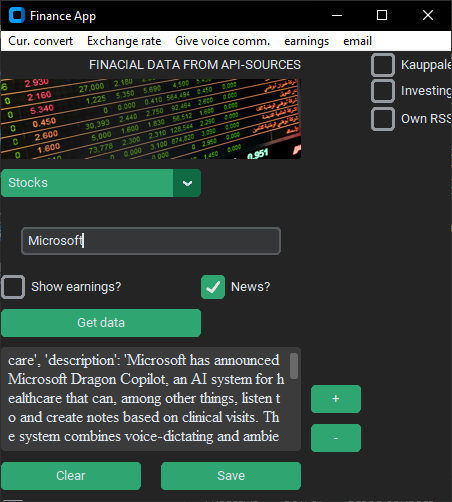
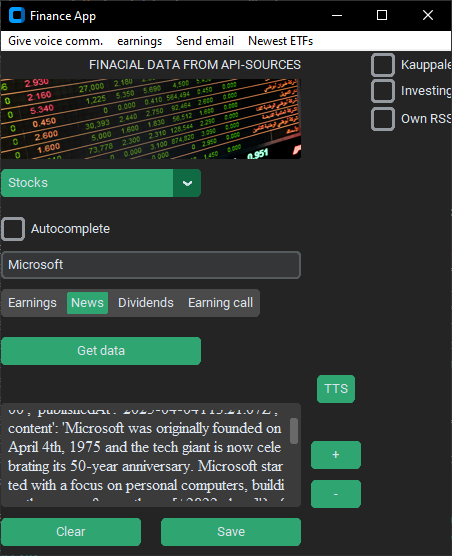
Segmented Button widgets added to finance.py

diff --git a/finance.py b/finance.py
@@ -99,9 +99,7 @@ class App(ctk.CTk,tk.Menu):
         self.earnings=ctk.CTkCheckBox(self,text="Show earnings?", onvalue="on", offvalue="off", variable=self.earningsSV)
         self.newsAboutComp=ctk.CTkCheckBox(self,text="News?",command=lambda:self.news.companyNews(self.codeEntry.get(),self.textbox))
         
-        self.createStockBars=ctk.CTkCheckBox(self,text="EOD data",command=lambda:self.ms.showEod(self.codeEntry.get()))
-        self.dividends=ctk.CTkCheckBox(self,text="Dividends",command=lambda:self.ms.getDividends(self.codeEntry.get(),self.textbox))
-        self.earnTranscript=ctk.CTkCheckBox(self,text="Earning call",command=lambda:self.an.earningCalls(self.codeEntry.get(),self.textbox,self.earnTranscript))
+      
         self.getBtn=ctk.CTkButton(self,text="Get data",command=self.selectMethods,width=200)
         self.getBtn.grid(row=7,column=1,columnspan=3,sticky="w",pady=10)
         self.textbox=ctk.CTkTextbox(self,width=200,corner_radius=5,height=105,font=self.font)
@@ -164,9 +162,26 @@ class App(ctk.CTk,tk.Menu):
         self.indexMenuByCountry=ctk.CTkOptionMenu(self,values=['Select','Finland','Germany','Japan','Poland'],command=lambda x:self.sc.scrapeIndex(x,self.textbox))
        
         self.yfOptions=ctk.CTkOptionMenu(self,values=['Select','Recommendations','Major Holders','Mutual fund hold.','Dividends'],command=lambda x: self.ytf.getOption(x,self.codeEntry.get(),self.textbox))
-        self.historyCB=ctk.CTkCheckBox(self,text="Get history",command=lambda:self.ms.historicalData(self.codeEntry.get(),self.textbox,self.fromDate.get(),self.toDate.get()))
-        self.createHistoryGraph=ctk.CTkCheckBox(self,text="History graphics",command=lambda:self.ytf.yfHistory(self.fromDate.get(),self.toDate.get(),self.codeEntry.get()))
-    #luetaan kaikki data tickers.txt tiedostosta ja lisätään data tickerlist listaan.
+        #self.historyCB=ctk.CTkCheckBox(self,text="Get history",command=lambda:self.ms.historicalData(self.codeEntry.get(),self.textbox,self.fromDate.get(),self.toDate.get()))
+        self.historyOptions=ctk.CTkSegmentedButton(self,values=['Get history','History graph','Intraday'],command=lambda sel:self.ytf.yfHistory(sel,self.fromDate.get(),self.toDate.get(),self.codeEntry.get(),self.textbox))
+        self.stockOptions=ctk.CTkSegmentedButton(self, values=['Earnings','News','Dividends','Earning call'],command=self.getStockOption)
+        self.cryptoOptions=ctk.CTkSegmentedButton(self,values=['Save cryptos to CSV'],command=self.getStockOption)
+        self.quantity=ctk.CTkComboBox(self,values=['1m', '2m', '5m', '15m', '30m', '60m', '90m', '1h', '4h', '1d', '5d', '1wk', '1mo', '3mo'],command=self.ytf.getComboBoxValue,width=70)
+        self.quantity.set('1m')
+   
+
+    def getStockOption(self,val):
+        if val=="News":
+            self.news.companyNews(self.codeEntry.get(),self.textbox)
+        elif val=='Dividends':
+            self.ms.getDividends(self.codeEntry.get(),self.textbox)
+        elif val=="Earning call":
+            self.an.earningCalls(self.codeEntry.get(),self.textbox)
+        elif val=="Save cryptos to CSV":
+            self.opt.getCryptos()
+
+
+ #luetaan kaikki data tickers.txt tiedostosta ja lisätään data tickerlist listaan.
     def setAcText(self):
          self.tickerFile=open("tickers.txt","r")
          self.tickerData=self.tickerFile.read()
@@ -189,9 +204,6 @@ class App(ctk.CTk,tk.Menu):
             if response.isdigit()==False:
                 self.sc.getEtfData(self.textbox,response)
             
-            
-         
-    
     def speechReg(self):
         r = sr.Recognizer()
         with sr.Microphone() as source:
@@ -217,6 +229,7 @@ class App(ctk.CTk,tk.Menu):
         self.klRss.deselect()
         self.invRss.deselect()
         self.writeUrl.deselect()
+        self.codeEntry.delete(0,"end")
 
     #käyttäjän antama rss-syötteen osoite
     def showInput(self):
@@ -245,19 +258,13 @@ class App(ctk.CTk,tk.Menu):
         if self.choice in self.words:
             self.codeEntry.grid(row=5, column=1, sticky="ew")
             if self.choice=="Stocks":
+                self.stockOptions.grid(row=6,column=1,sticky="W",pady=10)
                 self.useAC.grid(row=4,column=1,sticky="w",pady=10)
-                self.earnings.grid(row=6,column=1,sticky="W")
-                self.newsAboutComp.grid(row=6,column=1,sticky="E")
-                self.createStockBars.grid(row=6,column=2,sticky="E")
-                self.dividends.grid(row=6,column=3,sticky="E")
-                self.earnTranscript.grid(row=7,column=2,sticky="W")
+           
            
             elif self.choice=="Crypto":
                 self.useAC.grid(row=4,column=1,sticky="w",pady=10)
-                
-                #self.cryptoCsv=ctk.CTkCheckBox(self,text="Save cryptos to CSV",command=lambda:self.opt.getCryptos())
-                self.newsAboutComp.grid(row=6,column=1,sticky="W")
-                self.cryptoCsv.grid(row=6,column=1,sticky="E")
+                self.cryptoOptions.grid(row=6,column=1,sticky="E")
             
             elif self.choice=="Commodities":
                 
@@ -266,16 +273,14 @@ class App(ctk.CTk,tk.Menu):
 
             elif self.choice=="History":
                 self.codeEntry.grid(row=5, column=1,sticky="W")
-              
-                
-                self.historyCB.grid(row=7,column=1,sticky="W")
-                self.createHistoryGraph.grid(row=7,column=1,sticky="E")
+                self.historyOptions.grid(row=7,column=1,sticky="W")
                 self.fromDate=ctk.CTkEntry(self,placeholder_text="FROM (YYYY-MM-DD)")
                 self.fromDate.grid(row=6,column=1,sticky="EW")
                 self.fromDate.bind("<Button>",self.calendarMethod)
                 self.toDate=ctk.CTkEntry(self,placeholder_text="TO (YYYY-MM-DD)")
                 self.toDate.bind("<Button>",self.setCalDateToEnd)
                 self.toDate.grid(row=6,column=1,sticky="E")
+                self.quantity.grid(row=7,column=2,sticky="E",padx=5)
                 self.getBtn.grid_forget()
             elif self.choice=="Finance Dictionary":
                 self.codeEntry.grid(row=6,column=1,sticky="W",pady=5)
@@ -323,9 +328,9 @@ class App(ctk.CTk,tk.Menu):
          #piilottaa dict oliossa olevat gridit              
         else:
             self.grids={'grid':self.codeEntry.grid_forget(),'grid':self.earnings.grid_forget(),'grid':self.comMenu.grid_forget(),'grid':self.newsAboutComp.grid_forget()
-                        ,'grid':self.createStockBars.grid_forget(),'grid':self.podcasts.grid_forget(),'grid':self.podstop.grid_forget(),'grid':self.cryptoCsv.grid_forget()
+                        ,'grid':self.podcasts.grid_forget(),'grid':self.podstop.grid_forget()
                         ,'grid':self.financeDict.grid_forget(),'grid':self.getTermBtn.grid_forget(),'grid':self.indexMenuByCountry.grid_forget()
-                        ,'grid':self.codeentryAc.grid_forget(),'grid':self.yfOptions.grid_forget()}
+                        ,'grid':self.codeentryAc.grid_forget(),'grid':self.yfOptions.grid_forget(),'grid':self.fromDate.grid_forget(),'grid':self.toDate.grid_forget()}
             self.grids['grid']
             
             #muutetaan buttonin tekstiä configuren avulla
@@ -398,13 +403,9 @@ class App(ctk.CTk,tk.Menu):
             
 
     def selectMethods(self):
-        print(self.earningsSV.get())
+    
         #jos stocks on valittu pudotusvalikosta earning cb on valittu
-        if self.choice=="Stocks" and self.earningsSV.get()=="on":
-            self.an.fetchData(self.textbox,self.codeEntry.get(),self.valueCB)
-            self.an.fetchEarnings(self.textbox,self.codeEntry.get())
-        elif self.choice=="Stocks":
-           
+        if self.choice=="Stocks":   
             self.an.fetchData(self.textbox,self.codeEntry.get(),self.valueCB)
         elif self.choice=="Crypto":
             self.an.fetchCryptoData(self.textbox,self.valueCB,self.codeEntry.get())
@@ -417,7 +418,7 @@ class App(ctk.CTk,tk.Menu):
     
     def calendarMethod(self,event):
         self.cal = DateEntry(self, date_pattern="yyyy-mm-dd")
-        self.cal.grid(row=7,column=1,sticky="W",pady=10)
+        self.cal.grid(row=8,column=1,sticky="W",pady=10)
         self.cal.bind("<FocusOut>",self.setCalDate) 
     
     def setCalDate(self,event):
@@ -428,7 +429,7 @@ class App(ctk.CTk,tk.Menu):
         
     def setCalDateToEnd(self,event):
          self.cal = DateEntry(self, date_pattern="yyyy-mm-dd")
-         self.cal.grid(row=7,column=1,sticky="W",pady=10)
+         self.cal.grid(row=8,column=1,sticky="W",pady=10)
          self.cal.bind("<FocusOut>",self.setCalDateToEndField)
             
     def setCalDateToEndField(self,event):

diff --git a/yahooFinance.py b/yahooFinance.py
@@ -1,8 +1,10 @@
 import yfinance as yf
 import matplotlib.pyplot as plt
+from marketStack import MarketStack
 class YahooFinance():
      def __init__(self,*args, **kwargs):
         super().__init__(*args, **kwargs)
+        self.ms=MarketStack()
 
         
 
@@ -15,9 +17,6 @@ class YahooFinance():
          #metodin kutsu sulkeet lisätään tässä, muuten suoritetaan kaikki metodit
          self.optionDict[self.val]()
          self.ticker=yf.ticker(self.stockcode)
-
-         
-
     
      def getRecomms(self):
          ticker = yf.Ticker(self.stockcode)
@@ -40,27 +39,48 @@ class YahooFinance():
          dividends=ticker.get_dividends(proxy=None, period='max')
          self.tbox.insert("end",dividends)
     
-     def yfHistory(self,startdate,enddate,stockname):
+     def yfHistory(self,sel,startdate,enddate,stockname,tbox):
+         if sel=="History graph":
+             
+            stock = yf.Ticker(stockname)
+            data = stock.history(start=startdate, end=enddate)
+
+            fig, ax1 = plt.subplots(figsize=(14, 7))
+
+            ax1.set_xlabel('Date')
+            ax1.set_ylabel('Close Price', color='tab:red')
+            ax1.plot(data.index, data['Close'], color='tab:red', label='Close Price')
+            ax1.tick_params(axis='y', labelcolor='tab:red')
+
+            ax2 = ax1.twinx()
+            ax2.set_ylabel('Volume', color='tab:orange')
+            ax2.bar(data.index, data['Volume'], color='tab:cyan', alpha=0.3, label='Volume')
+            ax2.tick_params(axis='y', labelcolor='tab:cyan')
+
+            plt.title(f'{stockname} Stock Price and Volume from {startdate} to {enddate}')
+            fig.tight_layout()
+            fig.legend(loc='upper left', bbox_to_anchor=(0.1,0.9))
+            plt.grid(True)
+            plt.show()
+         elif sel=='Intraday':
+             self.stockIntraday(stockname,tbox)
+         elif sel=='Get history':
+             self.ms.historicalData(stockname,tbox,startdate,enddate)
+    
+     def getComboBoxValue(self,combovalue):
+         print(combovalue)
+         self.combovalue=combovalue
+
+     def stockIntraday(self,stockname,tbox):
+         interval = self.combovalue
          stock = yf.Ticker(stockname)
-         data = stock.history(start=startdate, end=enddate)
-
-         fig, ax1 = plt.subplots(figsize=(14, 7))
-
-         ax1.set_xlabel('Date')
-         ax1.set_ylabel('Close Price', color='tab:red')
-         ax1.plot(data.index, data['Close'], color='tab:red', label='Close Price')
-         ax1.tick_params(axis='y', labelcolor='tab:red')
-
-         ax2 = ax1.twinx()
-         ax2.set_ylabel('Volume', color='tab:orange')
-         ax2.bar(data.index, data['Volume'], color='tab:cyan', alpha=0.3, label='Volume')
-         ax2.tick_params(axis='y', labelcolor='tab:cyan')
-
-         plt.title(f'{stockname} Stock Price and Volume from {startdate} to {enddate}')
-         fig.tight_layout()
-         fig.legend(loc='upper left', bbox_to_anchor=(0.1,0.9))
-         plt.grid(True)
-         plt.show()
+         intraday_data = stock.history(period='1d', interval=interval)
+        
+         tbox.insert("end",intraday_data)
+         
+    
+  
+    
          
     
        

diff --git a/ApiNinjas.py b/ApiNinjas.py
@@ -119,7 +119,7 @@ class Apininjas():
         if response.status_code == requests.codes.ok:
             tbox.insert("end",response.text)
       
-      def earningCalls(self,ticker,tbox,earncb):
+      def earningCalls(self,ticker,tbox):
             
             self.dialog = ctk.CTkInputDialog(text="This feature returns a lot of information, how many records do you want to see?", title="Question")  
             response=self.dialog.get_input()
@@ -139,6 +139,6 @@ class Apininjas():
                   else:
                        tbox.insert("end",final)
               
-              earncb.deselect()
+        
               
     
